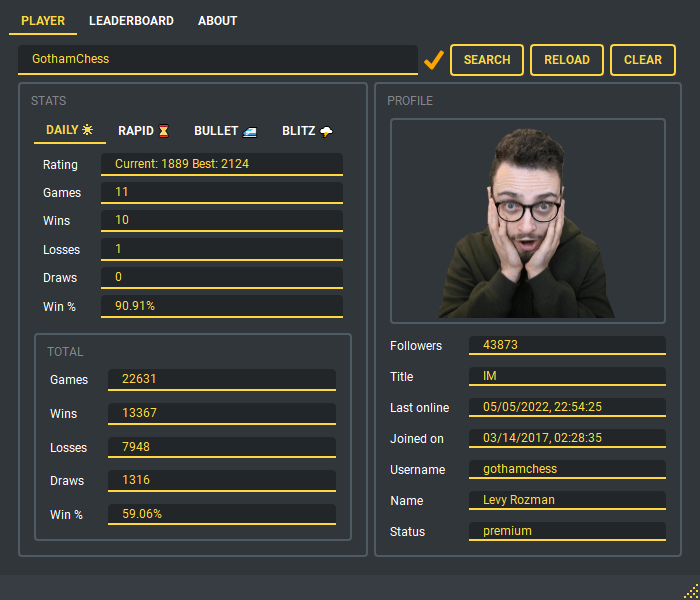
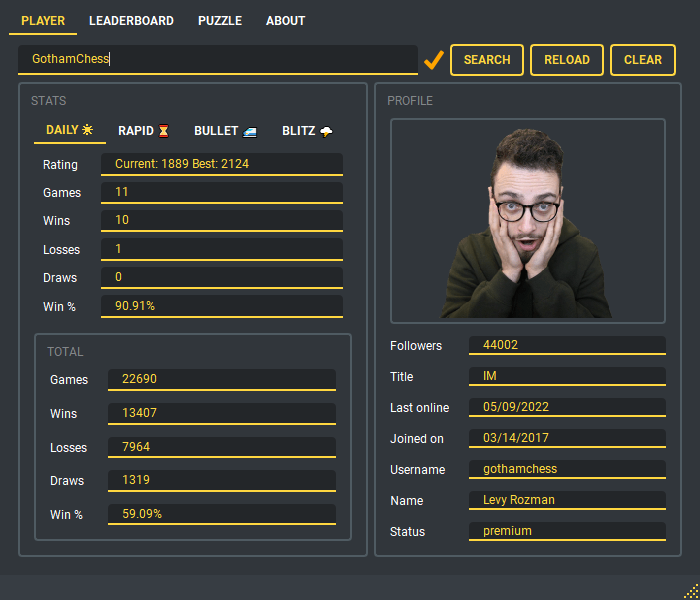
README

diff --git a/README.md b/README.md
@@ -33,6 +33,14 @@ The interface is divided in sections:
 
   - Nationality and flair
 
+- Puzzle:
+
+  - Daily puzzle
+
+  - Random puzzle (updates every 15 seconds)
+
+  - Solutions
+
 ## Installation
 
 ### Option 1: Executable ( Windows only )
@@ -78,6 +86,8 @@ Double clicking any column name will change the default sorting by that column.
 <p align="center"><img src="https://raw.githubusercontent.com/mgldz/Chess-Dot-Py/main/resources/s1.png"></p>
 
 <p align="center"><img src="https://raw.githubusercontent.com/mgldz/Chess-Dot-Py/main/resources/s2.png"></p>
+
+<p align="center"><img src="https://raw.githubusercontent.com/mgldz/Chess-Dot-Py/main/resources/s3.png"></p>
 
 ## Modules used
 
